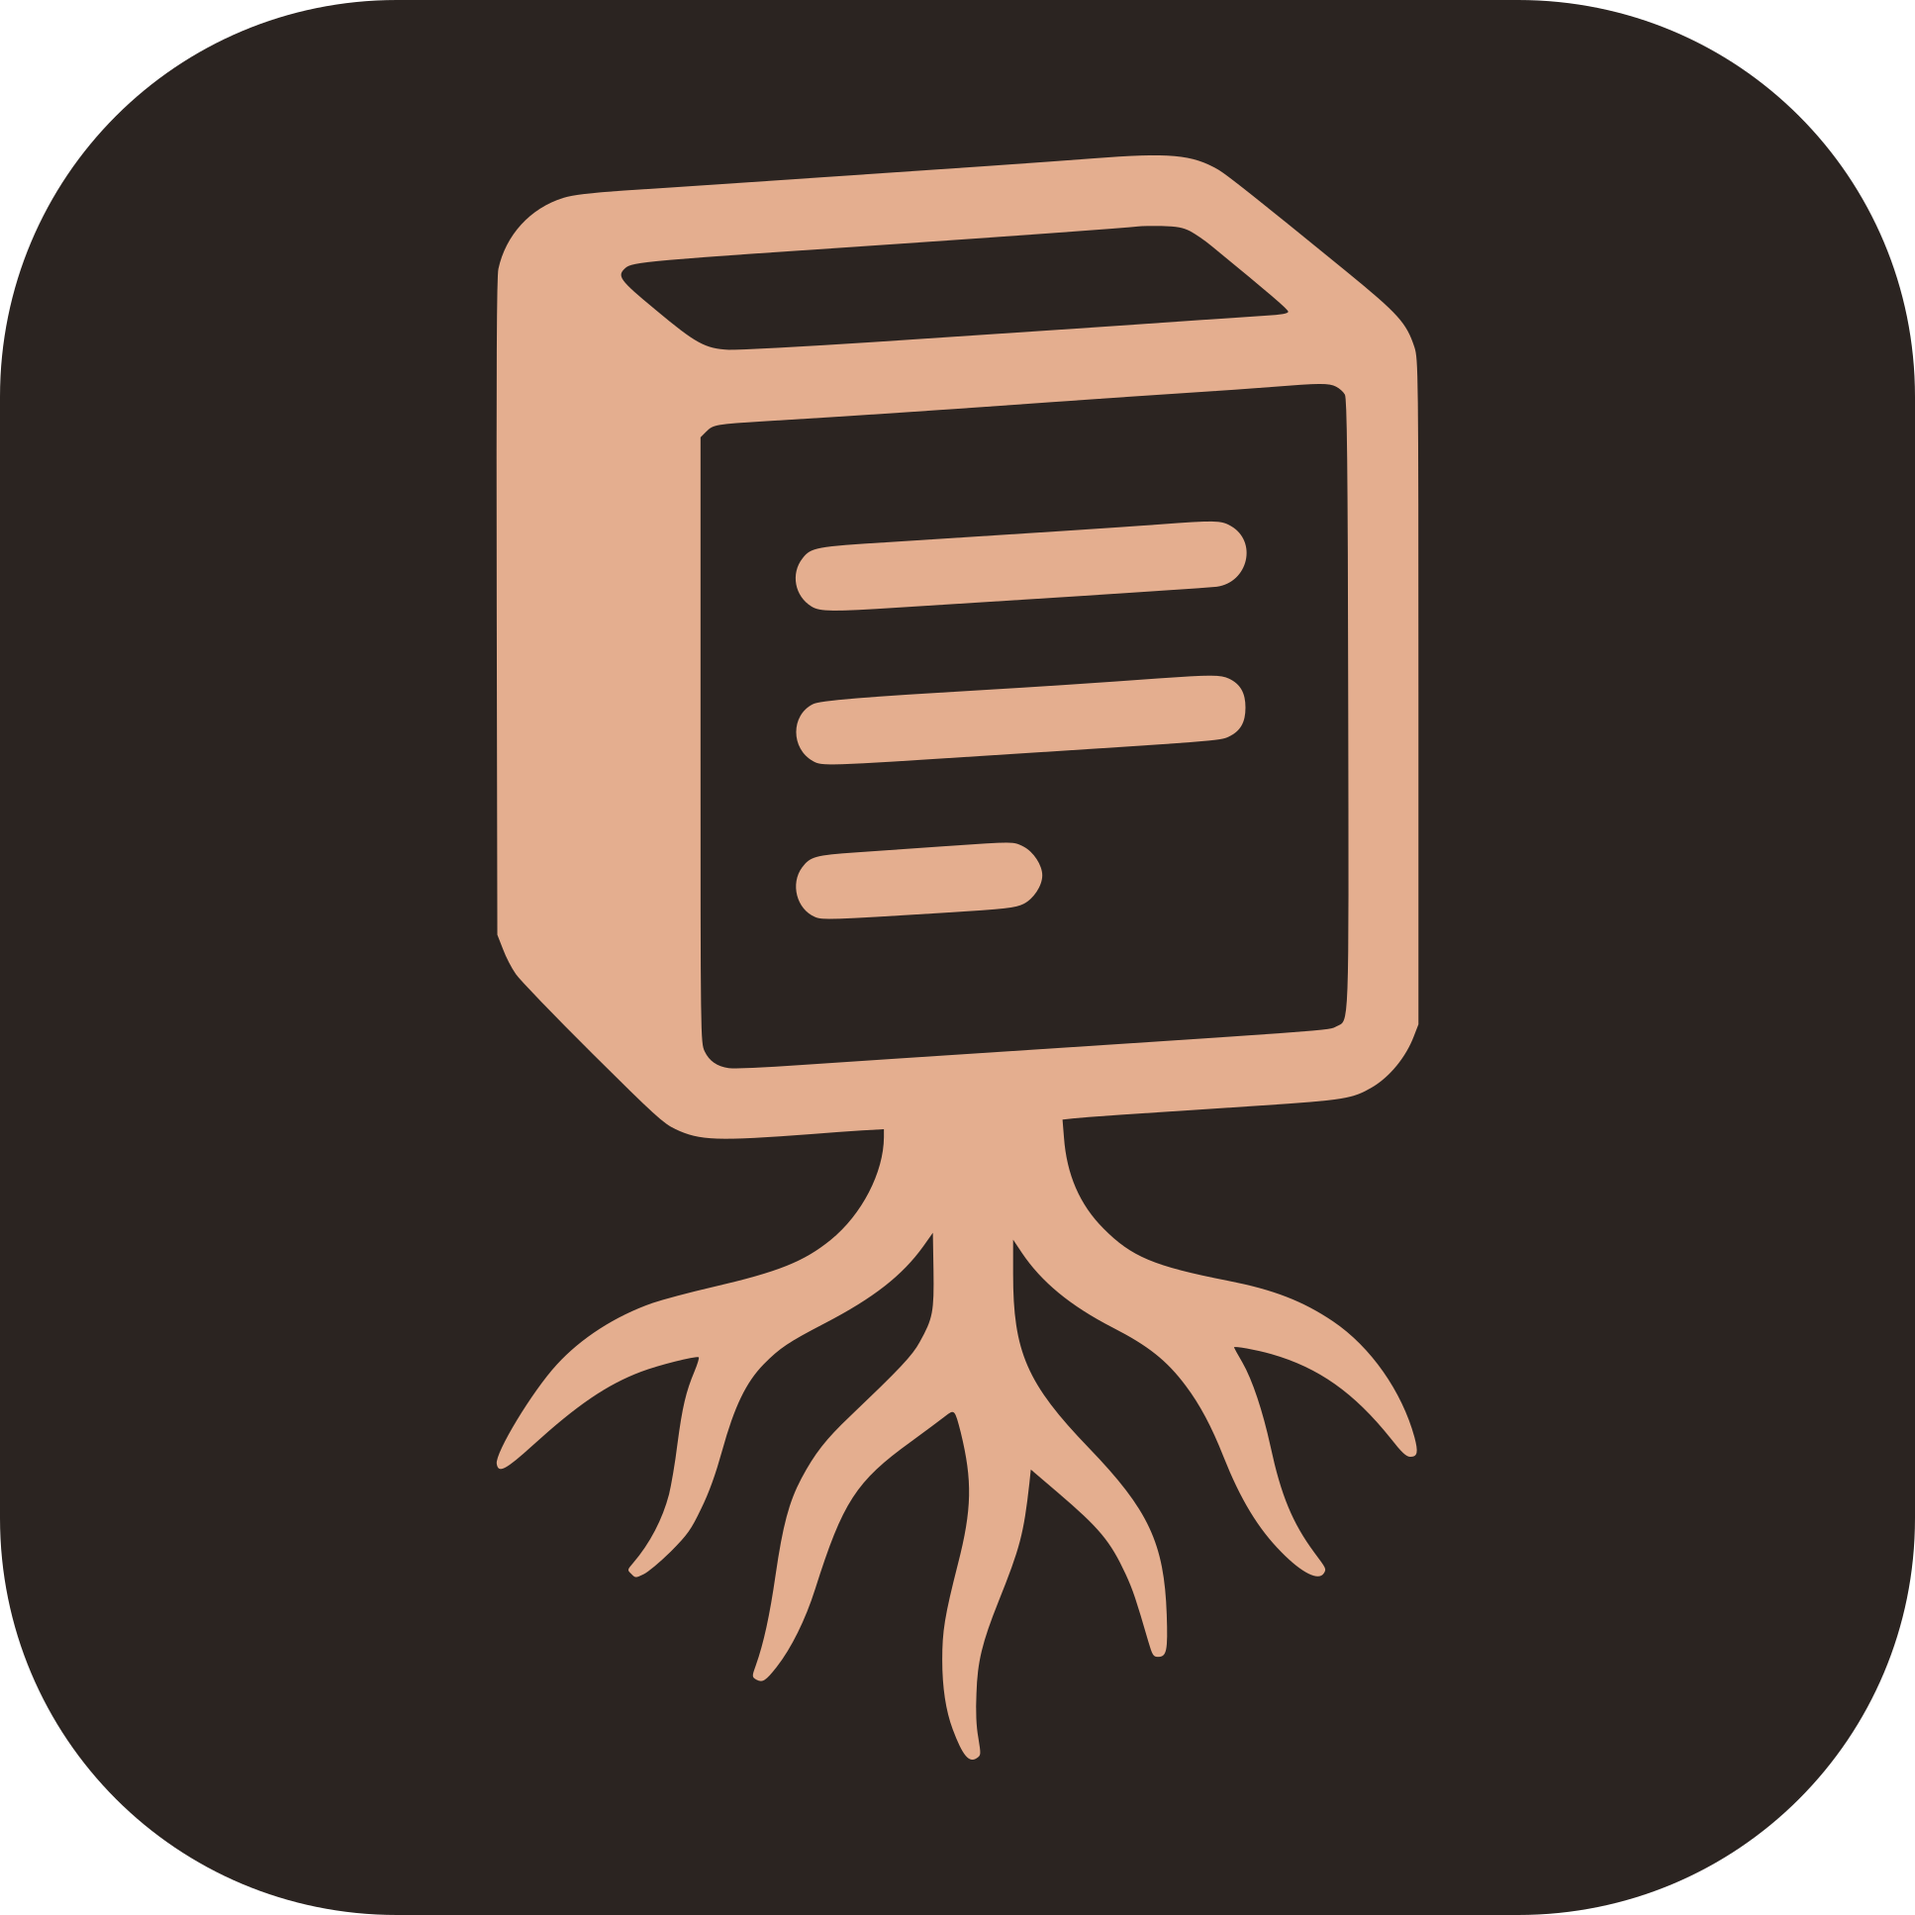
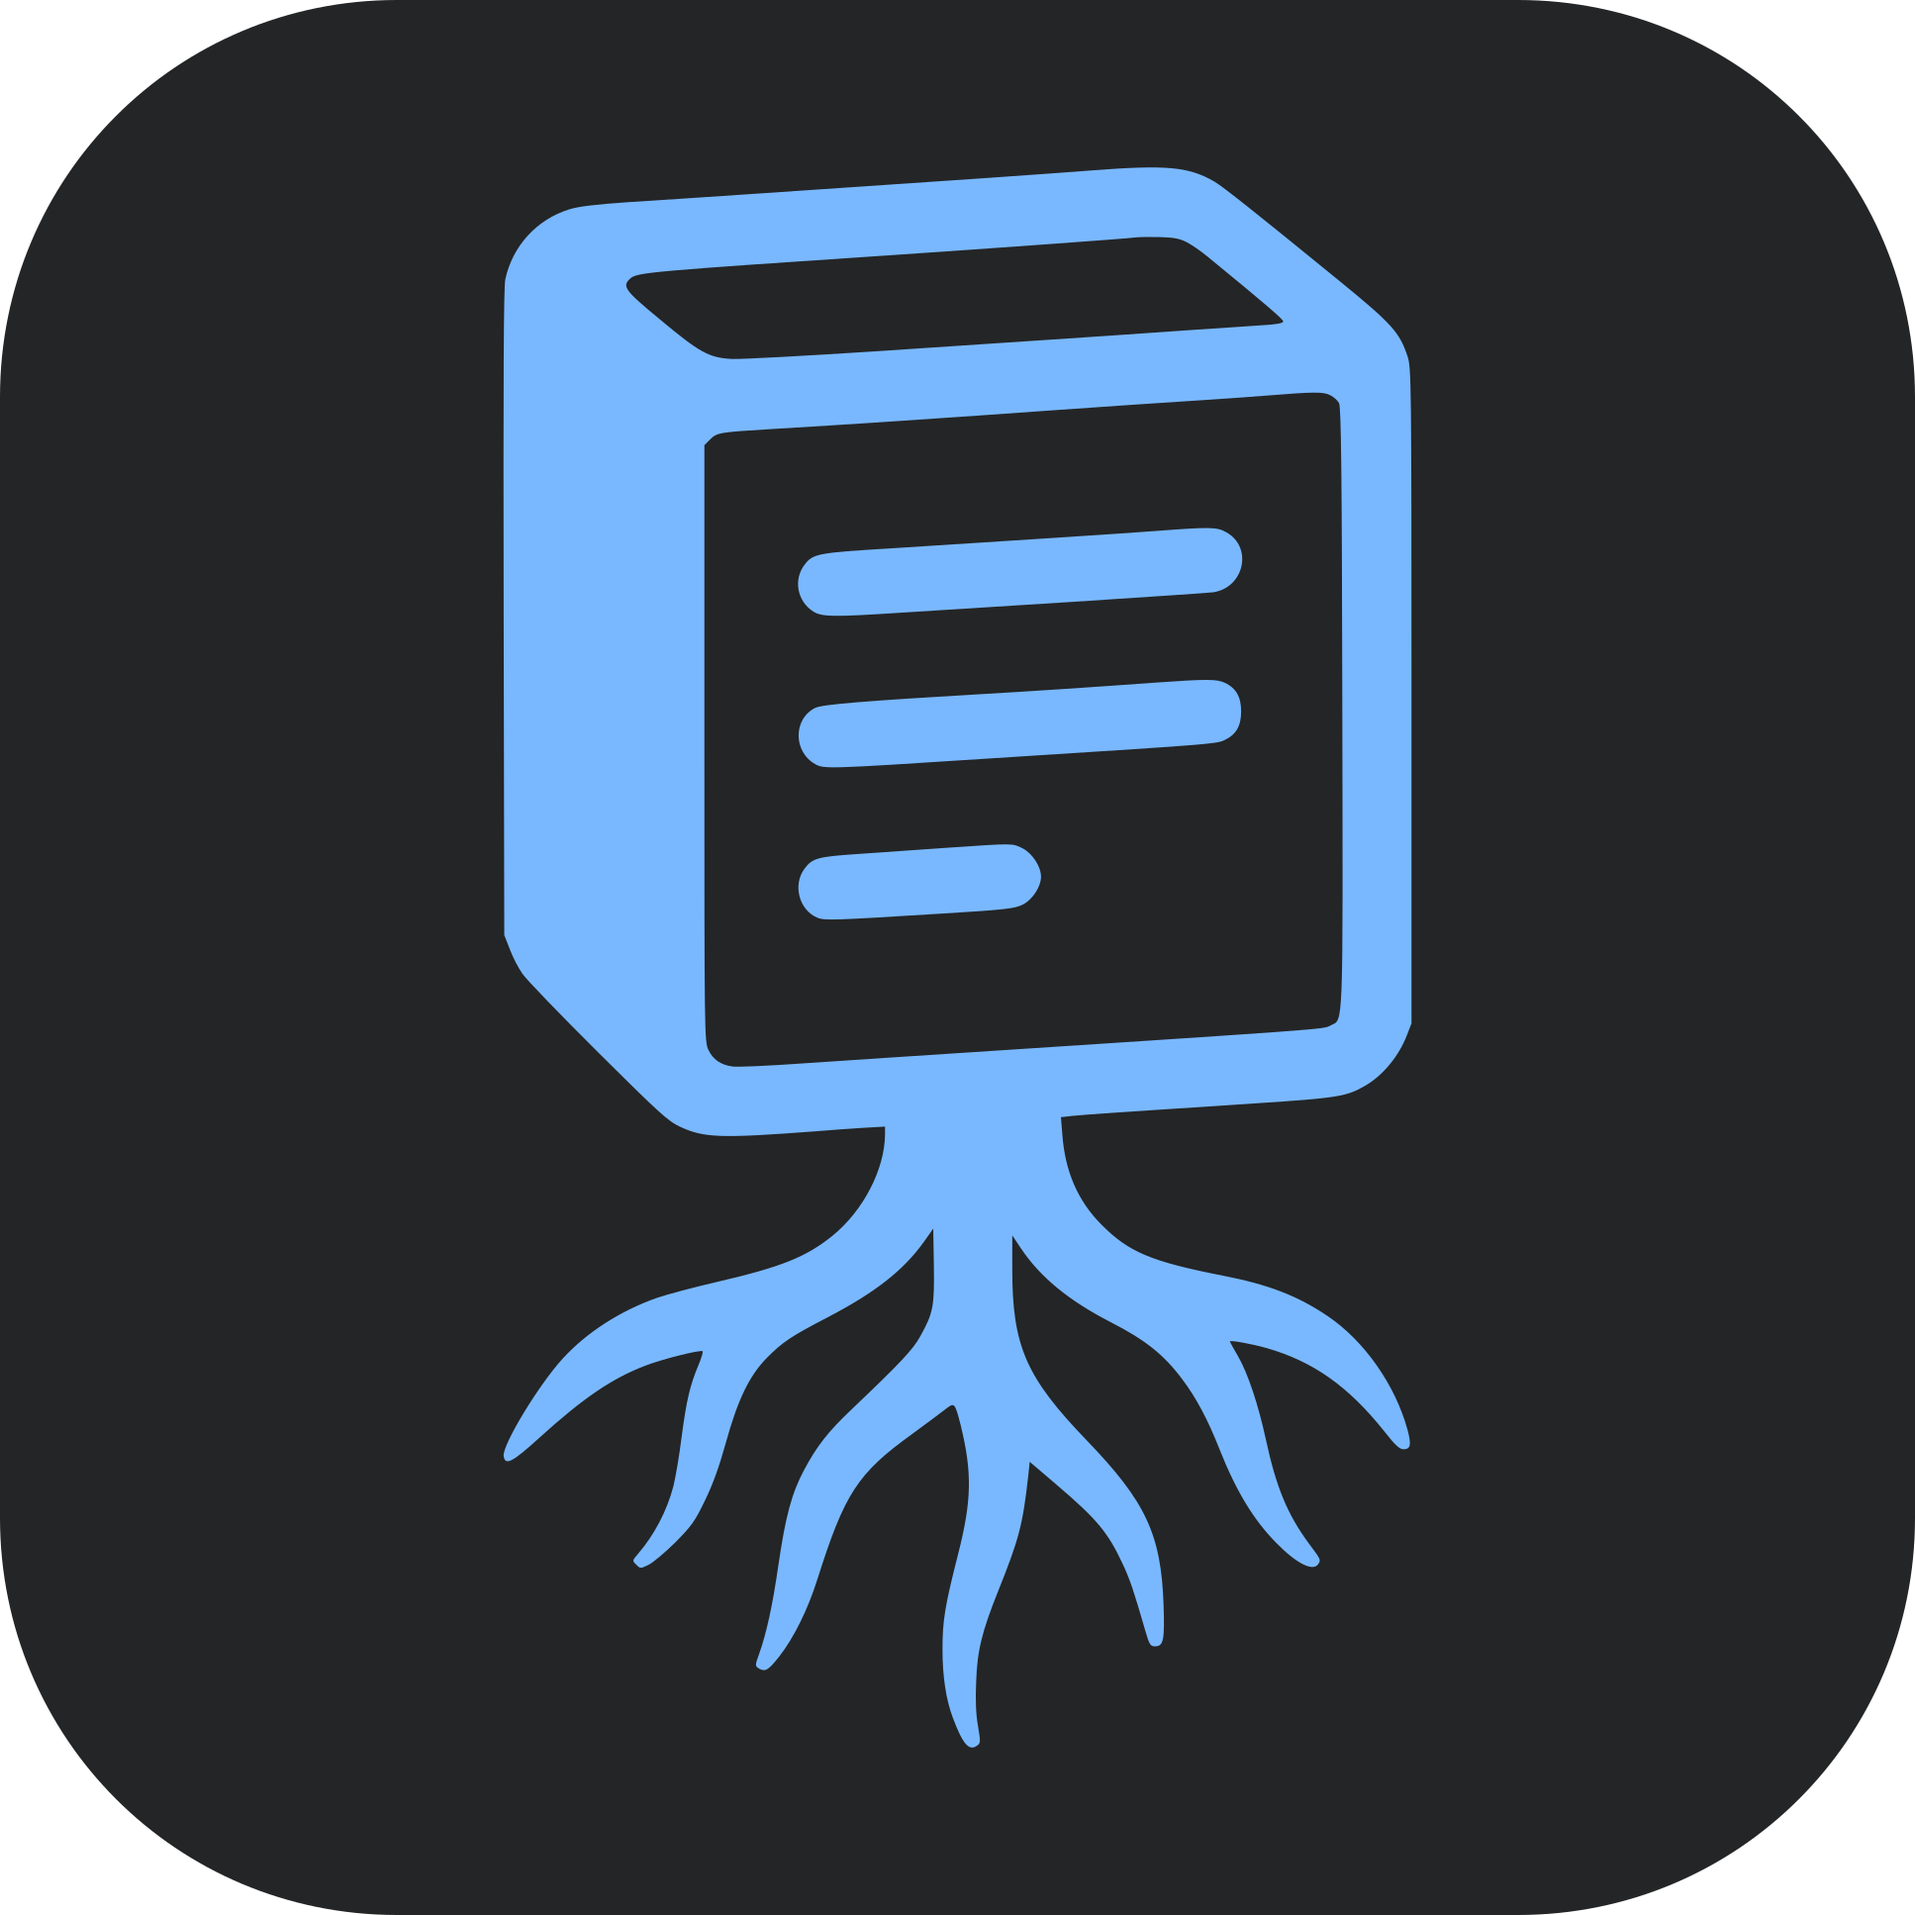
feat: apply new colors of claude blue as default branding colors

diff --git a/lib/og-image.tsx b/lib/og-image.tsx
@@ -1,23 +1,39 @@
-import * as React from "react"
+import * as React from "react";
 
-import { ImageResponse } from "next/og"
+import { ImageResponse } from "next/og";
 
-import RootlyLogo from "@/components/rootly-logo"
-import { absoluteUrl, siteConfig } from "@/lib/site-config"
+import RootlyLogo from "@/components/rootly-logo";
+import { absoluteUrl, siteConfig } from "@/lib/site-config";
 
-export const socialImageAlt = siteConfig.ogAlt
+export const socialImageAlt = siteConfig.ogAlt;
 export const socialImageSize = {
   width: 1200,
   height: 630,
-} as const
-export const socialImageContentType = "image/png"
+} as const;
+export const socialImageContentType = "image/png";
+
+const defaultOgColors = {
+  background: "#f2f5fa",
+  foreground: "#2f4561",
+  card: "#f8fbff",
+  "card-foreground": "#1e3048",
+  primary: "#4f77c8",
+  "primary-foreground": "#ffffff",
+  secondary: "#e6edf8",
+  "secondary-foreground": "#485f80",
+  muted: "#dfe7f4",
+  "muted-foreground": "#667b98",
+  accent: "#e6edf8",
+  "accent-foreground": "#2f4561",
+  border: "#d1dced",
+};
 
 type RootlySocialImageOptions = {
-  description: string
-  eyebrow?: string
-  title: string
-  url?: string
-}
+  description: string;
+  eyebrow?: string;
+  title: string;
+  url?: string;
+};
 
 function LogoLockup() {
   return (
@@ -31,10 +47,10 @@ function LogoLockup() {
       <div
         style={{
           alignItems: "center",
-          background: "#f2dfd5",
-          border: "1px solid rgba(110, 68, 42, 0.14)",
+          background: defaultOgColors.accent,
+          border: `1px solid ${defaultOgColors.border}`,
           borderRadius: 28,
-          color: "#7a4230",
+          color: defaultOgColors["accent-foreground"],
           display: "flex",
           height: 72,
           justifyContent: "center",
@@ -45,7 +61,7 @@ function LogoLockup() {
       </div>
       <div
         style={{
-          color: "#6c3527",
+          color: defaultOgColors.foreground,
           display: "flex",
           fontSize: 38,
           fontWeight: 700,
@@ -55,7 +71,7 @@ function LogoLockup() {
         Rootly
       </div>
     </div>
-  )
+  );
 }
 
 function Eyebrow({ children }: { children: string }) {
@@ -64,10 +80,10 @@ function Eyebrow({ children }: { children: string }) {
       style={{
         alignItems: "center",
         alignSelf: "flex-start",
-        background: "#f5ebe5",
-        border: "1px solid rgba(110, 68, 42, 0.12)",
+        background: defaultOgColors.secondary,
+        border: `1px solid ${defaultOgColors.border}`,
         borderRadius: 999,
-        color: "#8b4d39",
+        color: defaultOgColors["secondary-foreground"],
         display: "flex",
         fontSize: 20,
         fontWeight: 600,
@@ -76,7 +92,7 @@ function Eyebrow({ children }: { children: string }) {
     >
       {children}
     </div>
-  )
+  );
 }
 
 export function createRootlySocialImage({
@@ -88,9 +104,8 @@ export function createRootlySocialImage({
   return new ImageResponse(
     <div
       style={{
-        background:
-          "linear-gradient(180deg, #f8f1eb 0%, #efe2d8 100%)",
-        color: "#3c241b",
+        background: `linear-gradient(180deg, ${defaultOgColors.background} 0%, ${defaultOgColors.secondary} 100%)`,
+        color: defaultOgColors.foreground,
         display: "flex",
         fontFamily:
           'Inter, ui-sans-serif, system-ui, -apple-system, BlinkMacSystemFont, "Segoe UI", sans-serif',
@@ -101,10 +116,10 @@ export function createRootlySocialImage({
     >
       <div
         style={{
-          background: "rgba(255, 251, 247, 0.9)",
-          border: "1px solid rgba(110, 68, 42, 0.12)",
+          background: defaultOgColors.card,
+          border: `1px solid ${defaultOgColors.border}`,
           borderRadius: 40,
-          boxShadow: "0 24px 60px rgba(110, 68, 42, 0.08)",
+          boxShadow: "0 24px 60px rgba(60, 88, 148, 0.10)",
           display: "flex",
           flex: 1,
           flexDirection: "column",
@@ -126,7 +141,7 @@ export function createRootlySocialImage({
           <Eyebrow>{eyebrow}</Eyebrow>
           <div
             style={{
-              color: "#5a2d21",
+              color: defaultOgColors["card-foreground"],
               display: "flex",
               fontSize: 72,
               fontWeight: 800,
@@ -140,7 +155,7 @@ export function createRootlySocialImage({
           </div>
           <div
             style={{
-              color: "#7b5b4c",
+              color: defaultOgColors["muted-foreground"],
               display: "flex",
               fontSize: 28,
               lineHeight: 1.35,
@@ -155,7 +170,7 @@ export function createRootlySocialImage({
         <div
           style={{
             alignItems: "center",
-            color: "#956f58",
+            color: defaultOgColors["muted-foreground"],
             display: "flex",
             fontSize: 22,
             fontWeight: 500,
@@ -170,6 +185,6 @@ export function createRootlySocialImage({
     </div>,
     {
       ...socialImageSize,
-    }
-  )
+    },
+  );
 }
